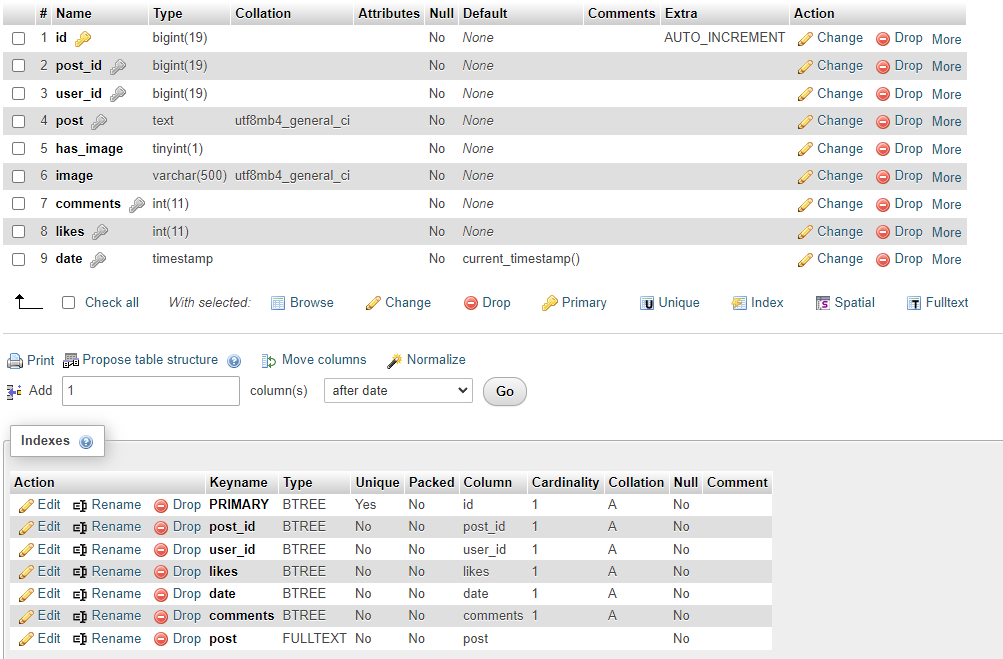
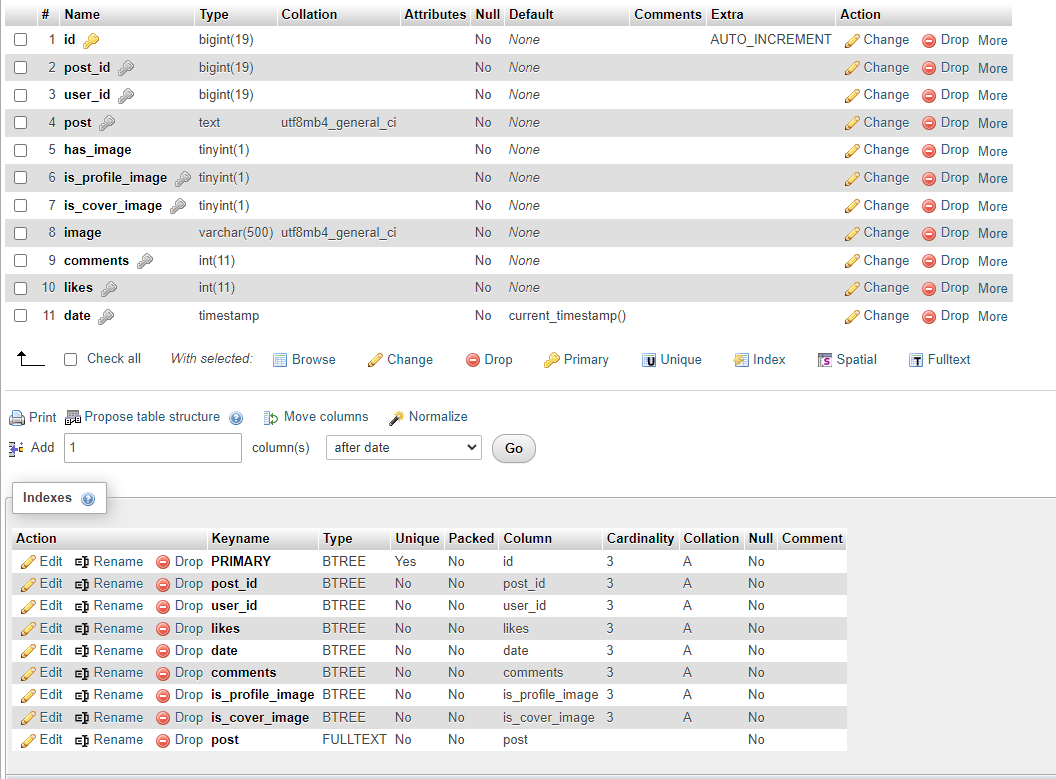
create a post for profile/cover pics (Part 65)

diff --git a/assets/php/classes/post.inc.php b/assets/php/classes/post.inc.php
@@ -8,8 +8,19 @@
                 // Check for images
                 $myImage = "";
                 $has_image = 0;
+                $is_cover_image = 0;
+                $is_profile_image = 0;
 
-                if(!empty($files['file']['name'])) {
+                if(isset($data['is_profile_image']) || isset($data['is_cover_image'])) {
+                    $myImage = $files;
+                    $has_image = 1;
+
+                    if(isset($data['is_cover_image'])) {
+                        $is_cover_image = 1;
+                    } else if(isset($data['is_profile_image'])) {
+                        $is_profile_image = 1;
+                    }
+                }else if(!empty($files['file']['name'])) {
                     // Move image into the uploads folder
                     $folder = "uploads/" . $user_id . "/";
 
@@ -36,10 +47,15 @@
                     $has_image = 1;
                 }
                 
-                $post = addslashes($data['post']);
+                // Checking that post has data
+                $post = "";
+                if(isset($data['post'])) {
+                    $post = addslashes($data['post']);
+                }
+
                 $post_id = $this->create_post_id();
 
-                $query = "insert into posts (user_id, post_id, post, has_image, image) values ('$user_id', '$post_id', '$post', '$has_image', '$myImage')";
+                $query = "insert into posts (user_id, post_id, post, has_image, is_profile_image, is_cover_image, image) values ('$user_id', '$post_id', '$post', '$has_image', '$is_profile_image', '$is_cover_image', '$myImage')";
 
                 $DB = new Database();
                 $DB->save($query);

diff --git a/assets/php/profile_image_assets.php b/assets/php/profile_image_assets.php
@@ -54,12 +54,18 @@
                         // Check which column to send data to
                         if($change == "cover") {
                             $query = "update users set cover_image = '$filename' where user_id = '$user_id' limit 1";
+                            $_POST['is_cover_image'] = 1;
                         } else {
                             $query = "update users set profile_image = '$filename' where user_id = '$user_id' limit 1";
+                            $_POST['is_profile_image'] = 1;
                         }
-        
+
                         $DB = new Database();
                         $DB->save($query);
+
+                        // Create a post
+                        $post = new Post();
+                        $result = $post->create_post($user_id, $_POST, $_FILES);
         
                         header("Location: profile.php");
                     }
